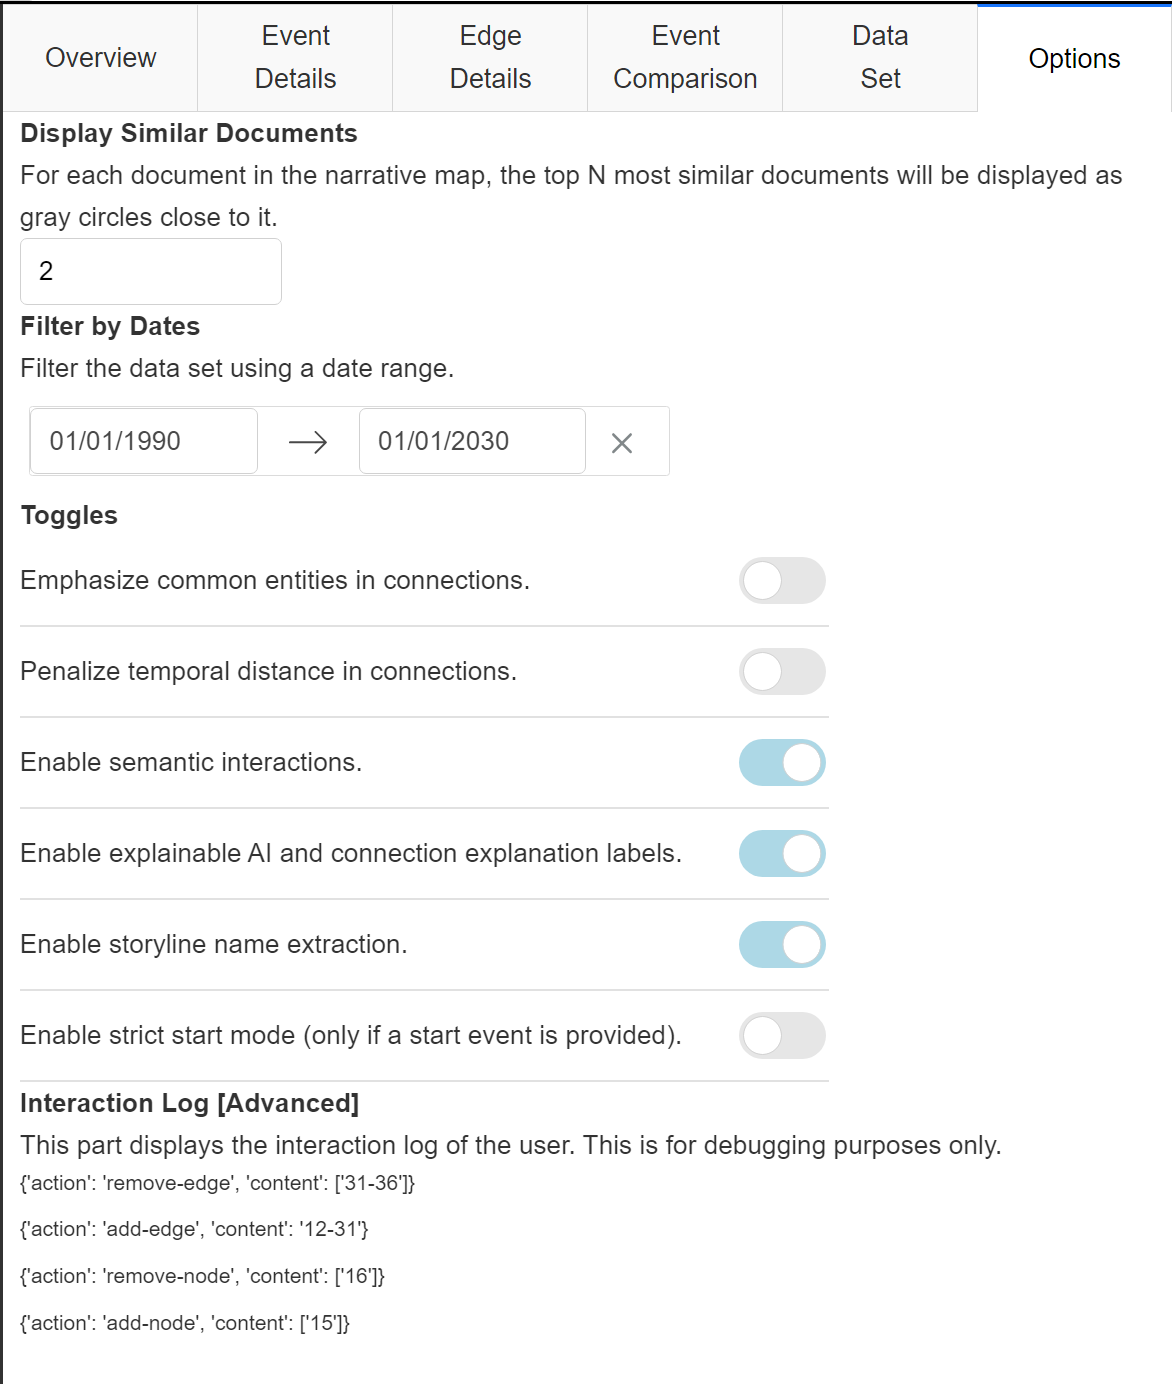
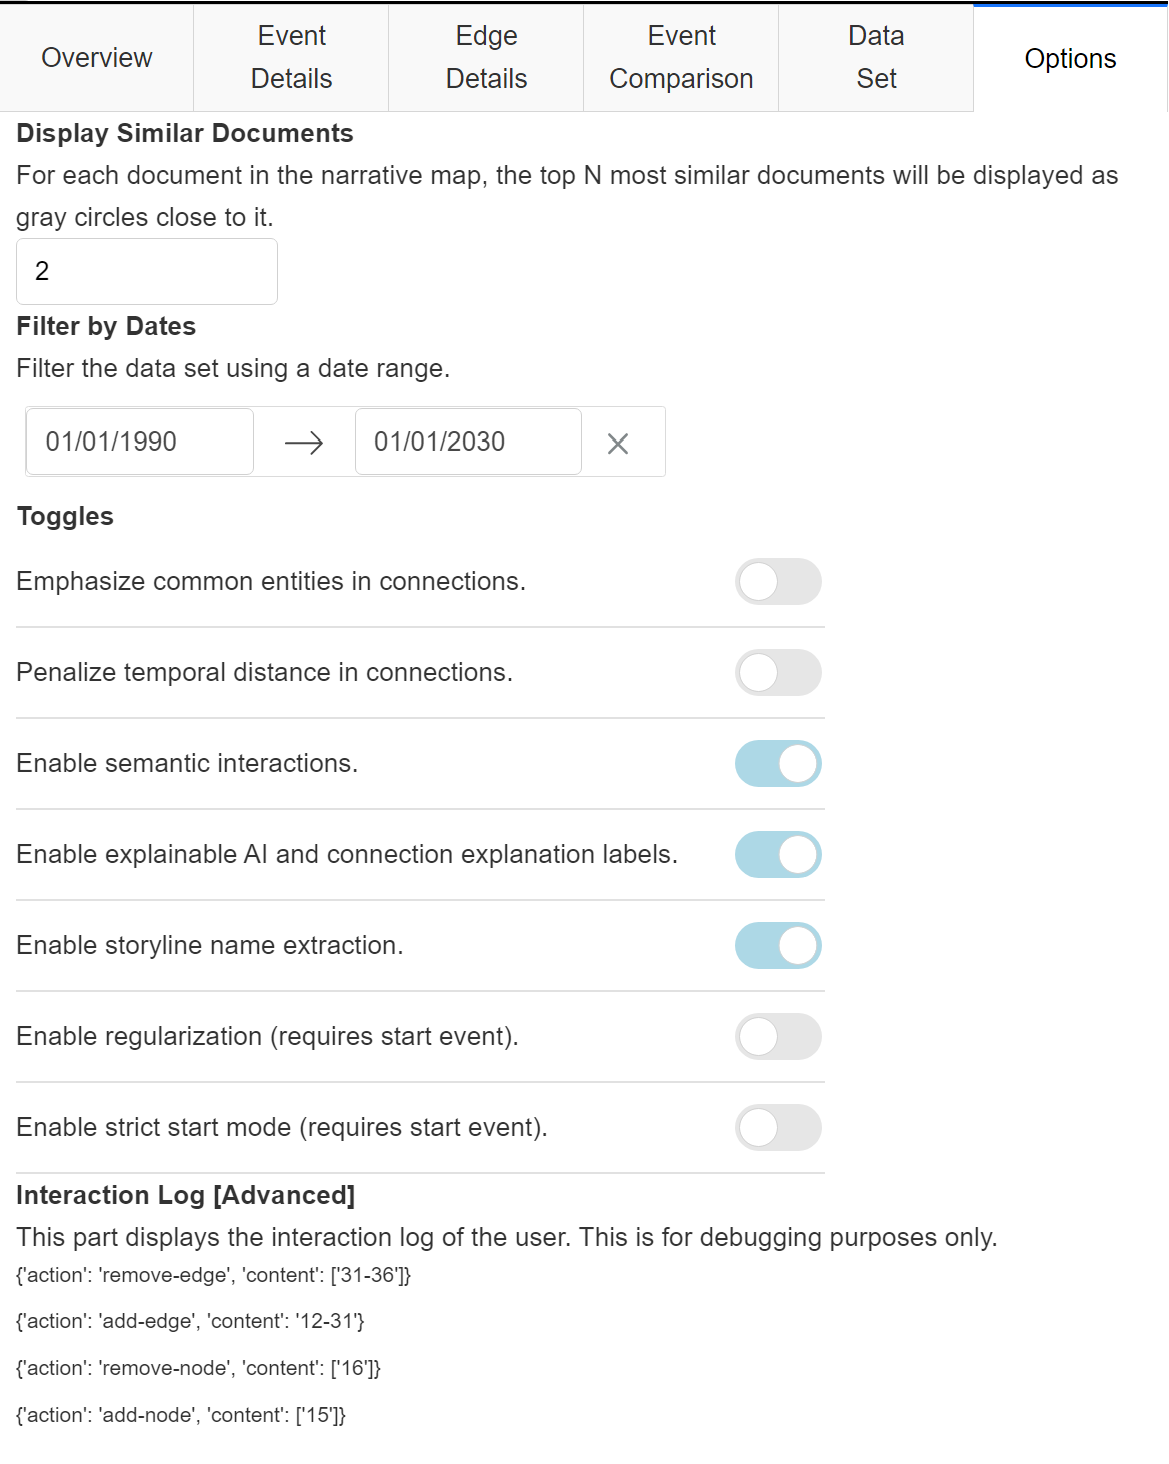
Expanded tutorial to include regularization
- Added regularization toggle to tutorial.
- Updated options image in tutorial.
- Fixed issue when using strict mode without start nodes.

diff --git a/narratives/packages/solve_LP.py b/narratives/packages/solve_LP.py
@@ -998,7 +998,7 @@ def solve_LP(query, dataset,
         print("Graph data frame construction...")
         print("--- %s seconds ---" % (time() - start_time))
 
-    if strict_start:
+    if strict_start and has_start:
         graph_df = graph_clean_up(graph_df, start_nodes)
 
     if verbose:

diff --git a/tutorial/TUTORIAL.md b/tutorial/TUTORIAL.md
@@ -174,11 +174,12 @@ The options tab contains some extra settings that we can manipulate for map gene
 1. Display Similar Documents: This number influences the number of gray dots that appear in the background (events that did not make it to the map but are similar to events on the map). By default, for each event on the map, we select the top 2 most similar events from the data set that are not already on the map and add them to the background. Depending on the size of your data set, you might want to increase this, but higher values lead to denser background layouts, which may make it impractical.
 2. Filter by Dates: This filters the data set based on dates. By default, we include all our data sets in full, but you might want to narrow it down to some specific range. To apply this setting, you must reload the data set. 
 3. Toggles:
-    - Emphasize common entities in connections: If turned on, the extraction algorithm will include an extra weight term in the coherence computation based on the number of common entities between two events. This is recommended in data sets where entities are highly relevant (e.g., the Crescent data set). Note that the basic extraction method does not assign extra weight based on common entities, but it still can generate entity-based connections if there are enough common entities. This setting is not recommended for data sets where entities do not provide much information (e.g., the COVID-19 data set, where all events mention the "China" entity). This toggle is turned off by default. 
-    - Penalize temporal distance in connections: If turned on, the extraction algorithm will include an extra weight term in the coherence computation based on the temporal distance between two events. The usefulness of this setting depends on the time period covered by the data set and its temporal density. In general, this is recommended in long-spanning data sets (e.g., the Cuban data set), unless the temporal density is low. This setting is not recommended for data sets with shorter time spans unless it is a very dense data set (e.g., a month period with hourly events). The temporal penalty is based on the "Temporal Sensitivity" parameter, higher values of temporal sensitivity make the penalty weaker, and lower values make it stronger. The temporal sensitivity parameter is measured in days (if you use a custom data set with a different temporal resolution, you might have to change this programmatically). This toggle is turned off by default.
-    - Enable semantic interactions: This enables the use of semantic interactions to change the projection space and the structure space based on user feedback. If you do not want to use the semantic interaction capabilities of the prototype, then turn this off. This toggle is turned on by default.
-    - Enable explainable AI and connection explanation labels: This enables the use of the explainable AI component (generating edge labels, explaining edges, and comparing nodes). If you do not want to use the explainable AI module or you want to reduce the computational cost, then turn this off. This toggle is turned on by default.
-    - Enable storyline name extraction: This enables the extraction of storyline names. If you do not want to generate names for the storylines or want to reduce the computational cost, then turn this off. This toggle is turned on by default.
-    - Enable strict mode (only if a start event is provided): If a start node is provided, enabling strict mode will remove all components of the graph that are not connected to the start node through extra post-processing. This toggle is turned off by default.
+    - **Emphasize common entities in connections**: If turned on, the extraction algorithm will include an extra weight term in the coherence computation based on the number of common entities between two events. This is recommended in data sets where entities are highly relevant (e.g., the Crescent data set). Note that the basic extraction method does not assign extra weight based on common entities, but it still can generate entity-based connections if there are enough common entities. This setting is not recommended for data sets where entities do not provide much information (e.g., the COVID-19 data set, where all events mention the "China" entity). This toggle is turned off by default. 
+    - **Penalize temporal distance in connections**: If turned on, the extraction algorithm will include an extra weight term in the coherence computation based on the temporal distance between two events. The usefulness of this setting depends on the time period covered by the data set and its temporal density. In general, this is recommended in long-spanning data sets (e.g., the Cuban data set), unless the temporal density is low. This setting is not recommended for data sets with shorter time spans unless it is a very dense data set (e.g., a month period with hourly events). The temporal penalty is based on the "Temporal Sensitivity" parameter, higher values of temporal sensitivity make the penalty weaker, and lower values make it stronger. The temporal sensitivity parameter is measured in days (if you use a custom data set with a different temporal resolution, you might have to change this programmatically). This toggle is turned off by default.
+    - **Enable semantic interactions**: This enables the use of semantic interactions to change the projection space and the structure space based on user feedback. If you do not want to use the semantic interaction capabilities of the prototype, then turn this off. This toggle is turned on by default.
+    - **Enable explainable AI and connection explanation labels**: This enables the use of the explainable AI component (generating edge labels, explaining edges, and comparing nodes). If you do not want to use the explainable AI module or you want to reduce the computational cost, then turn this off. This toggle is turned on by default.
+    - **Enable storyline name extraction**: This enables the extraction of storyline names. If you do not want to generate names for the storylines or want to reduce the computational cost, then turn this off. This toggle is turned on by default.
+    - **Enable regularization (requires start node)**: If a start node is provided, enabling regularization will reduce the risk of *overfitting* when performing semantic interactions (particularly clustering interactions). Enable this mode if you are running into highly complex maps when doing semantic interactions (e.g., lots of edges and storylines). This mode uses L1 regularization based on the edge weights. Note that if no start node is provided, the map will be mostly empty, due to the change in the objective function. This toggle is turned off by default.
+    - **Enable strict mode (requires start node)**: If a start node is provided, enabling strict mode will remove all components of the graph that are not connected to the start node through extra post-processing. Note that if no start node is provided, this toggle will have no effect. This toggle is turned off by default.
 4. Interaction Log: This log is for debugging purposes and shows the sequence of interactions done by the user. It is used by the semantic interaction module to determine the changes to the projection and structure space. 
 
